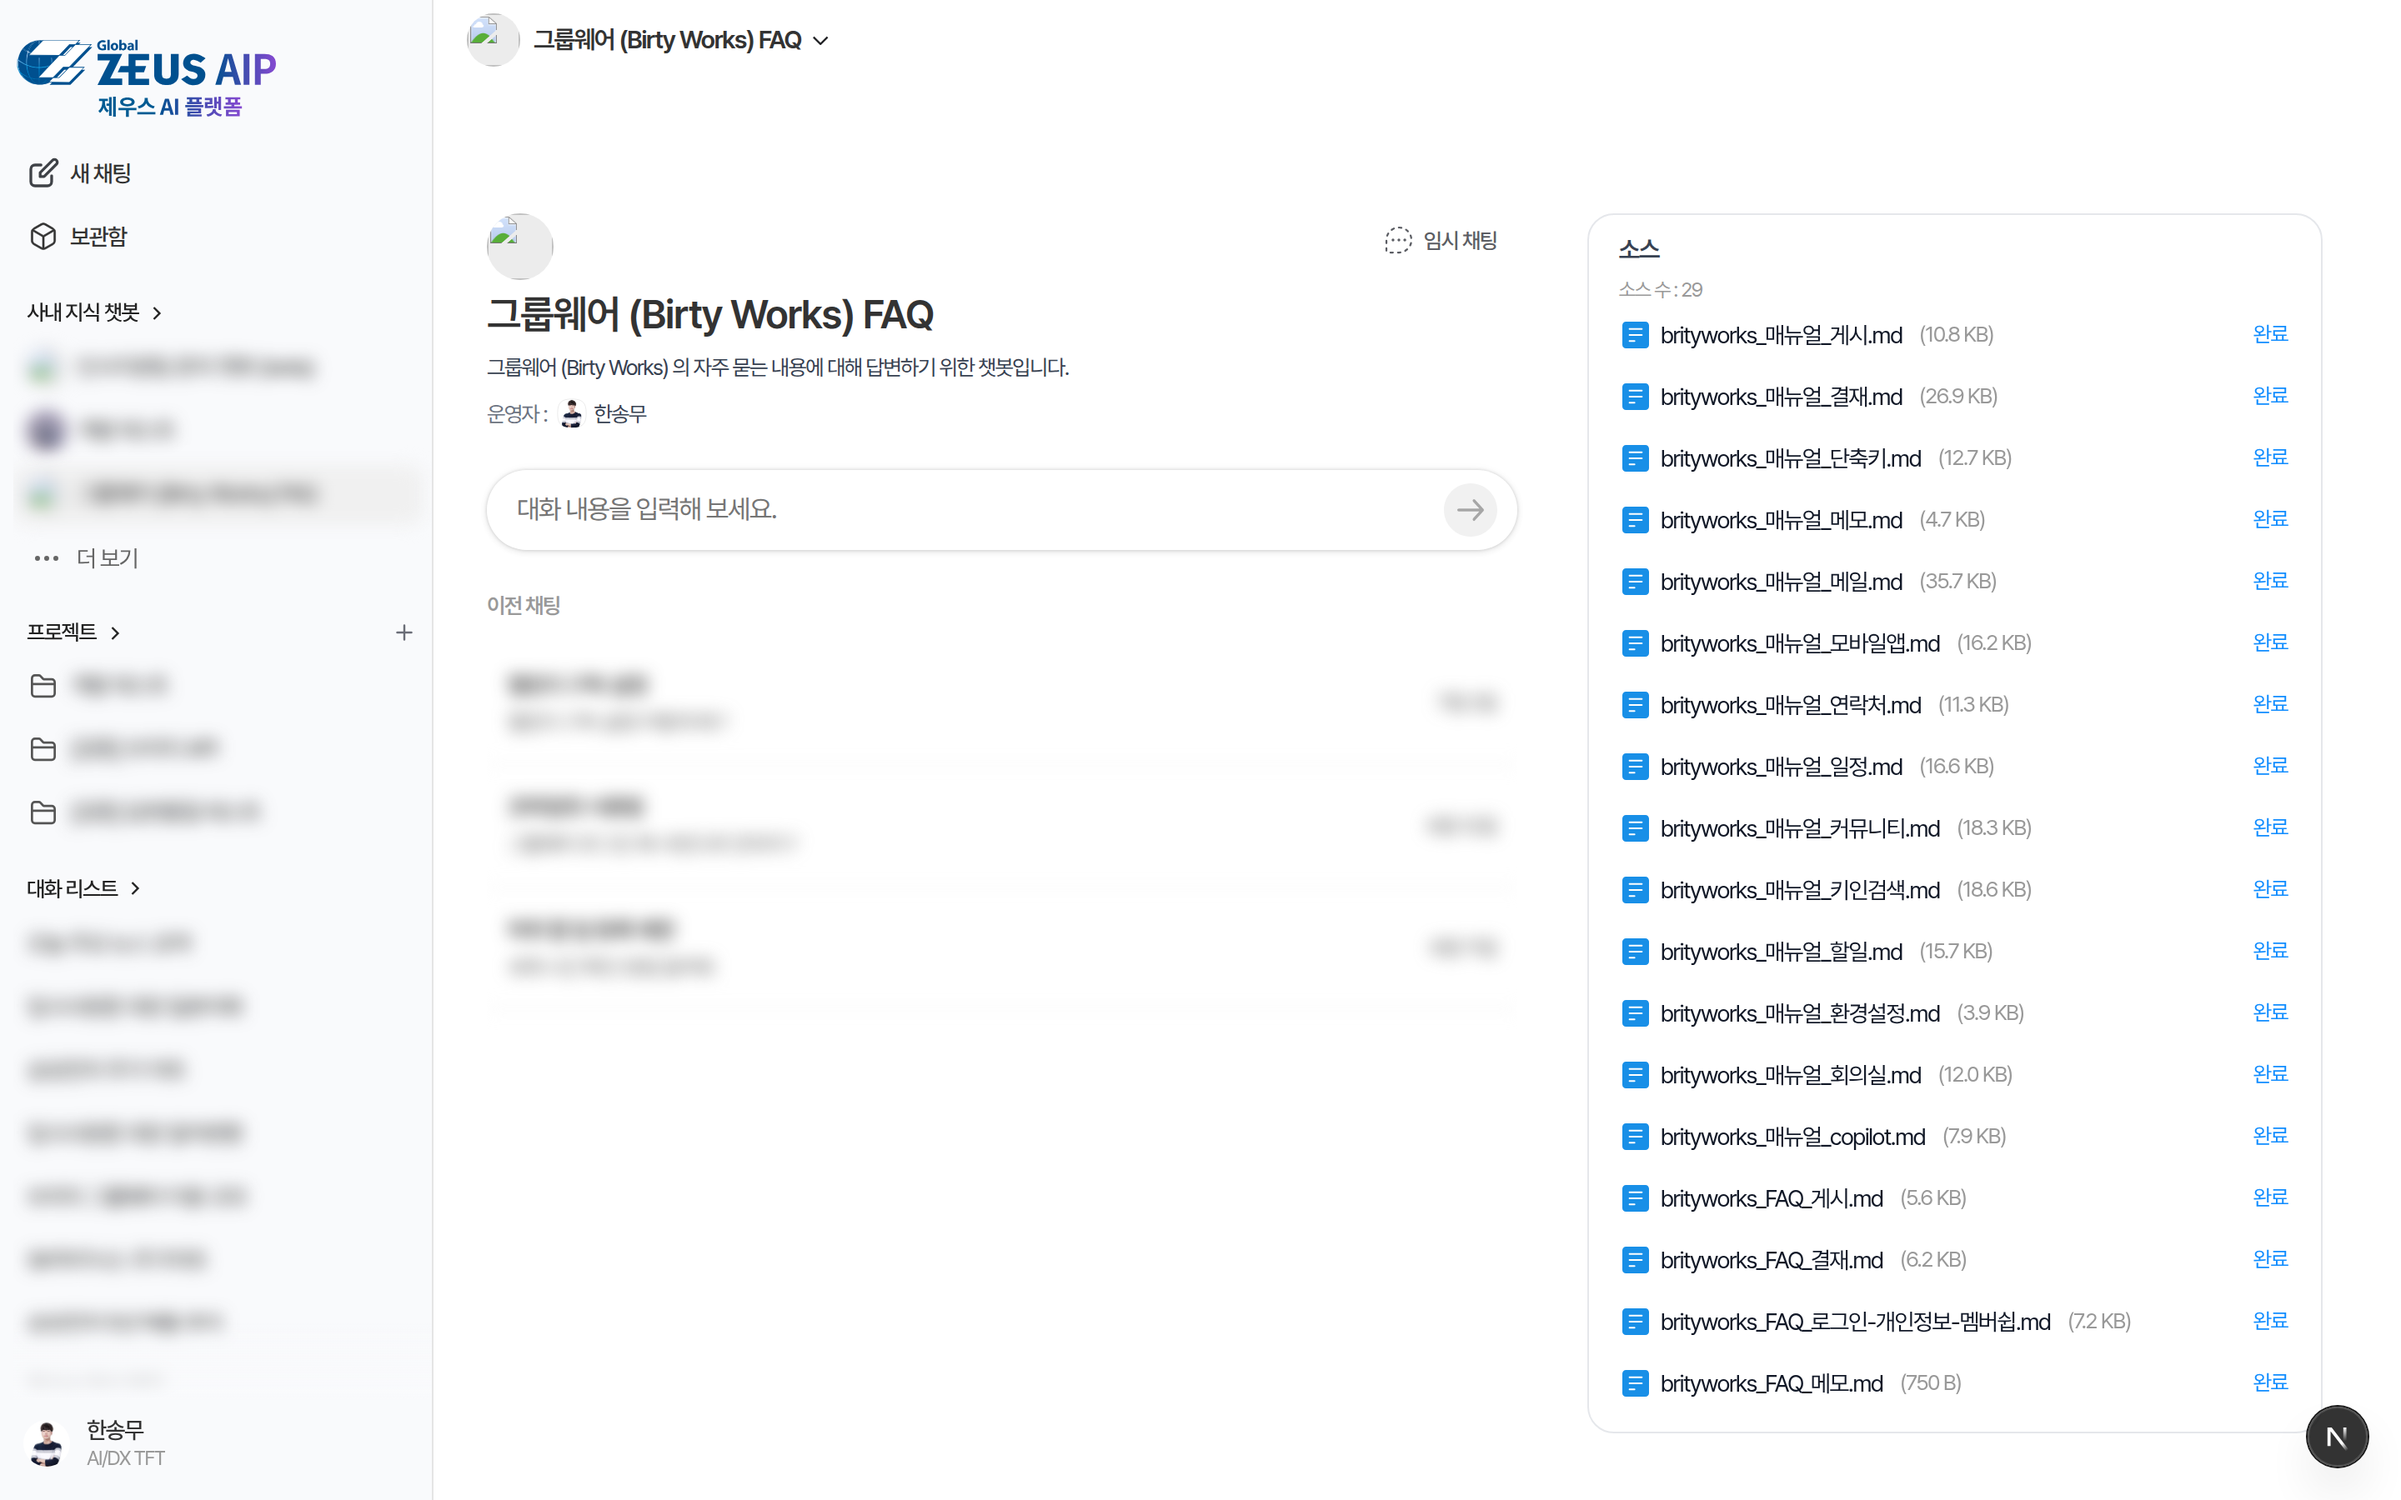
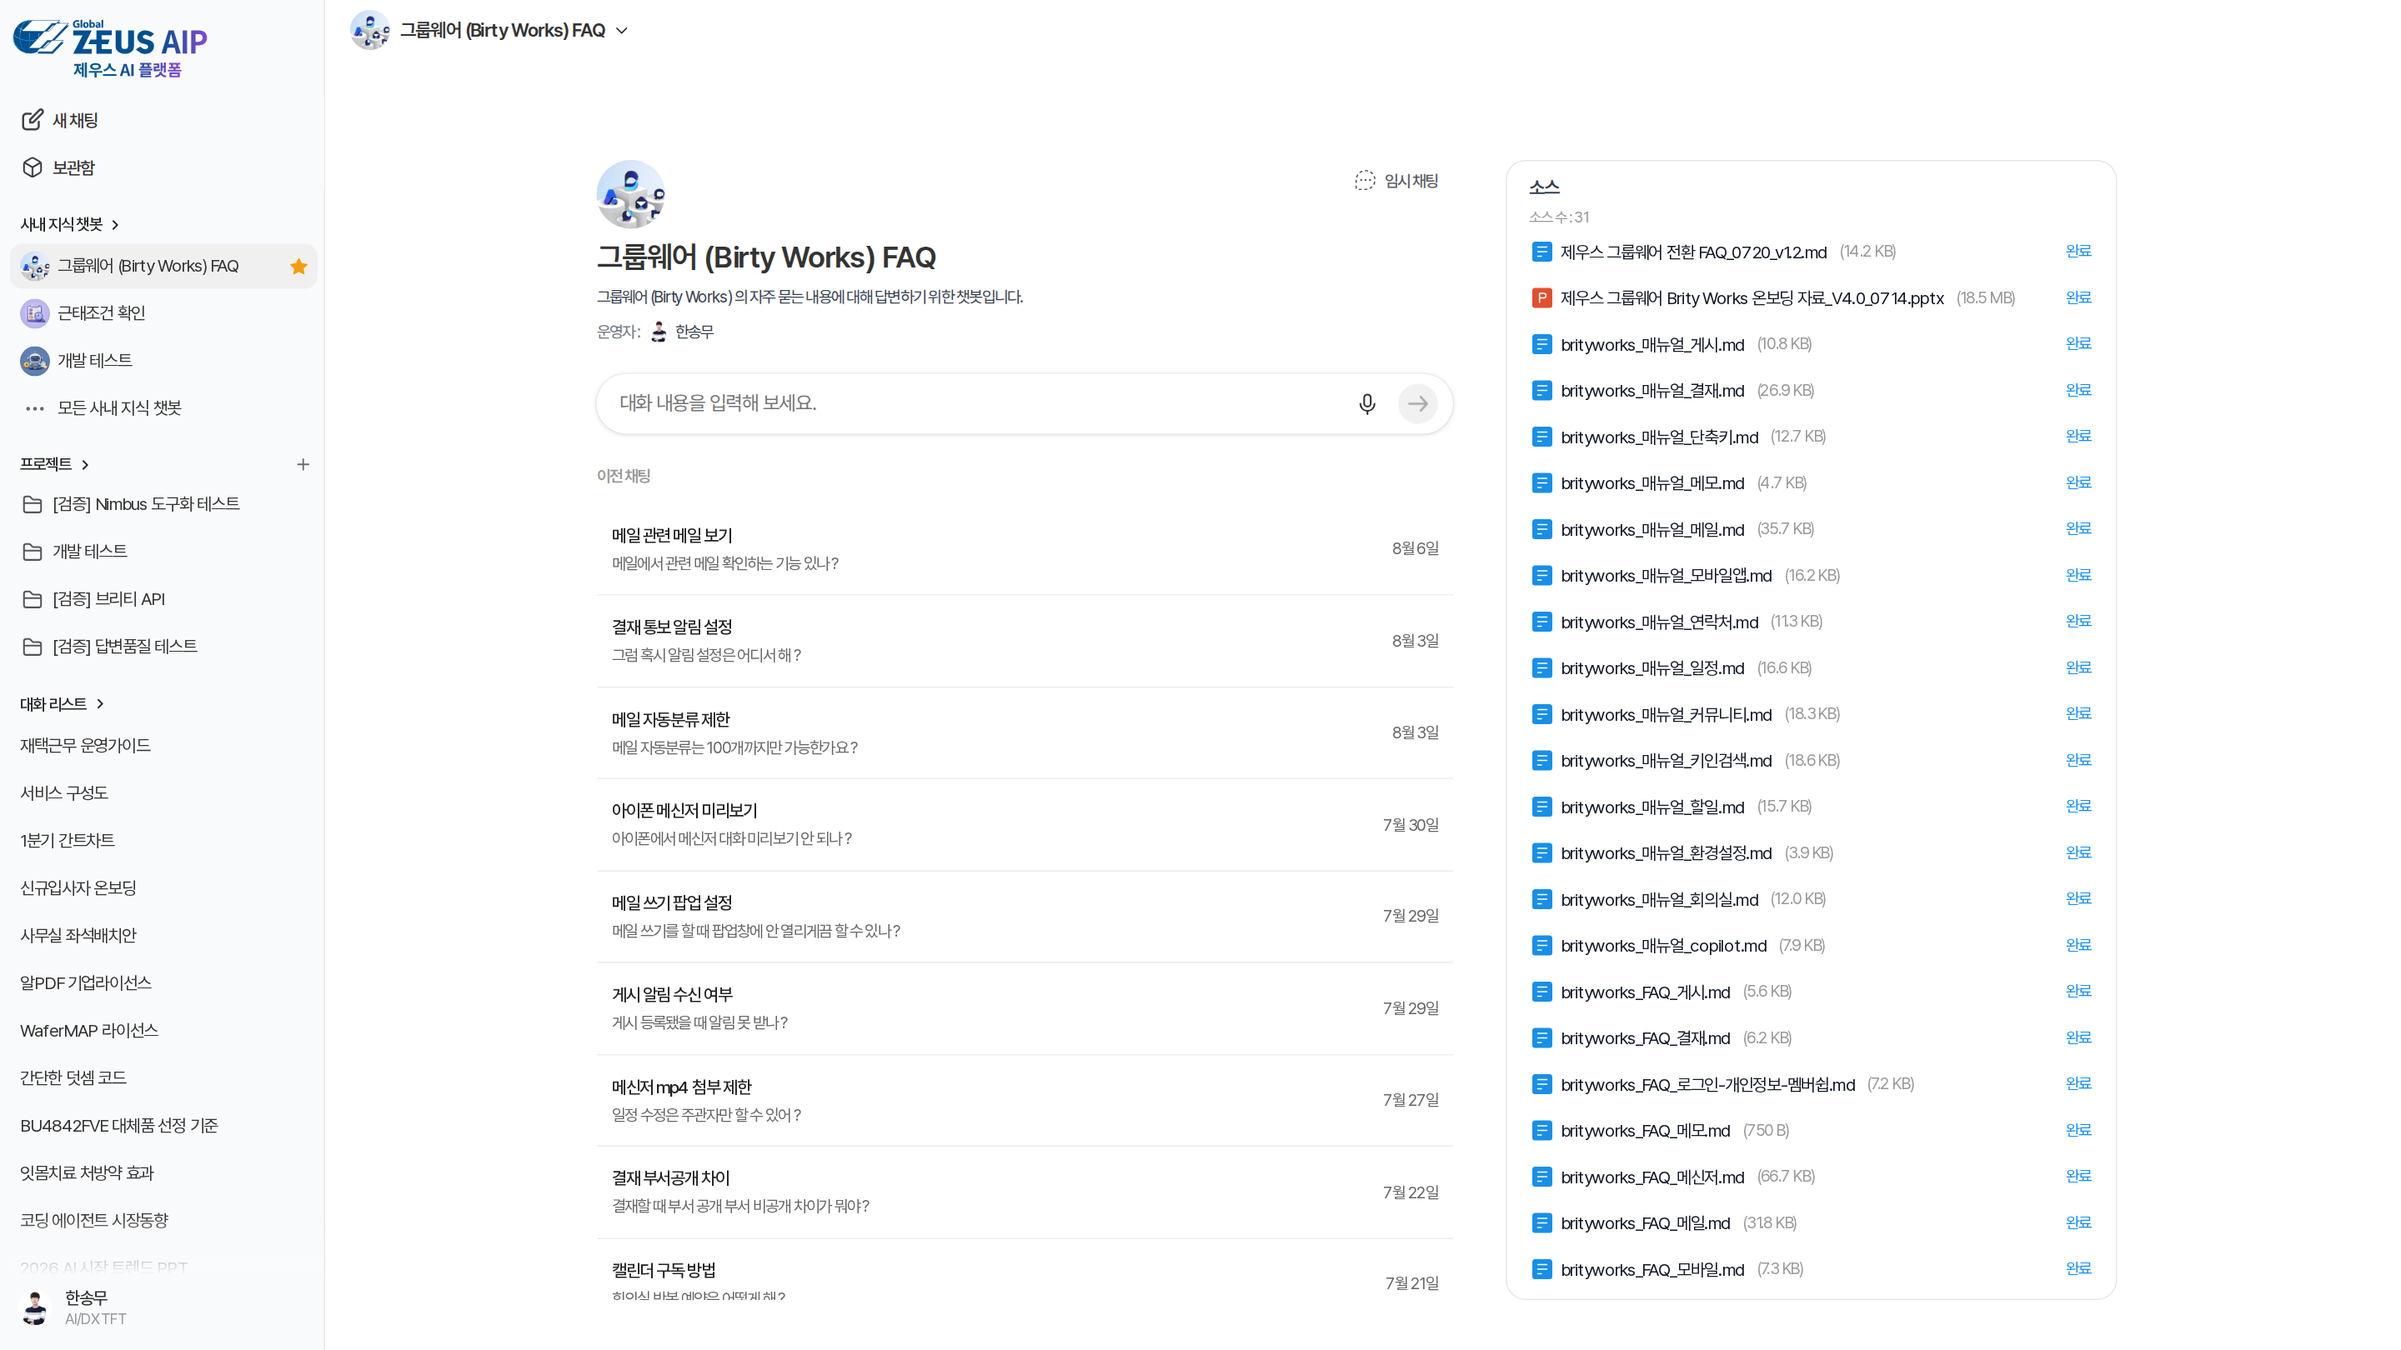
content(ai-platform): 메인·임시 채팅 자리 교정, 화면 6종 재캡처
임시 채팅을 켠 화면을 메인(118) 자리에 잘못 넣어 두었다. 118은 평상
메인으로 되돌리고, 임시 채팅 캡처는 129 자리로 옮긴다. 129에 있던
사내 지식 챗봇 안의 임시 채팅은 "사내 지식 쪽 말고"라는 요청과 어긋나
교체한다.

나머지는 UI가 바뀐 화면들이다. 모델 선택(180)은 전체 목록이 '더 많은
모델' 하위 메뉴로 접혔고, 사내 지식 챗봇 목록(125)은 예전 캡처에서
썸네일이 깨진 채로 찍혀 있어 이미지 로딩을 기다려 다시 찍었다.
대화 진입(126), 문서 생성(128), 관리자 대시보드(131)도 현행으로 갱신.

대시보드는 사용자별 열만 가렸다 — 타 직원 이름·얼굴·개인 사용량이라
가리고, 집계 수치와 차트는 남겼다.

diff --git a/src/content/imageDims.ts b/src/content/imageDims.ts
@@ -11,11 +11,11 @@ export const imageDims: Record<string, { w: number; h: number }> = {
   '/projects/ai-platform/121.png': { w: 2880, h: 1800 },
   '/projects/ai-platform/122.png': { w: 2880, h: 1800 },
   '/projects/ai-platform/123.png': { w: 2880, h: 1800 },
-  '/projects/ai-platform/125.png': { w: 2880, h: 1800 },
-  '/projects/ai-platform/126.png': { w: 2880, h: 1800 },
+  '/projects/ai-platform/125.png': { w: 2880, h: 1620 },
+  '/projects/ai-platform/126.png': { w: 2880, h: 1620 },
   '/projects/ai-platform/127.png': { w: 2880, h: 1800 },
   '/projects/ai-platform/128.png': { w: 2880, h: 1800 },
-  '/projects/ai-platform/129.png': { w: 2880, h: 1800 },
+  '/projects/ai-platform/129.png': { w: 2880, h: 1620 },
   '/projects/ai-platform/130.png': { w: 2880, h: 1800 },
   '/projects/ai-platform/131.png': { w: 2880, h: 1800 },
   '/projects/ai-platform/132.png': { w: 2880, h: 1800 },
